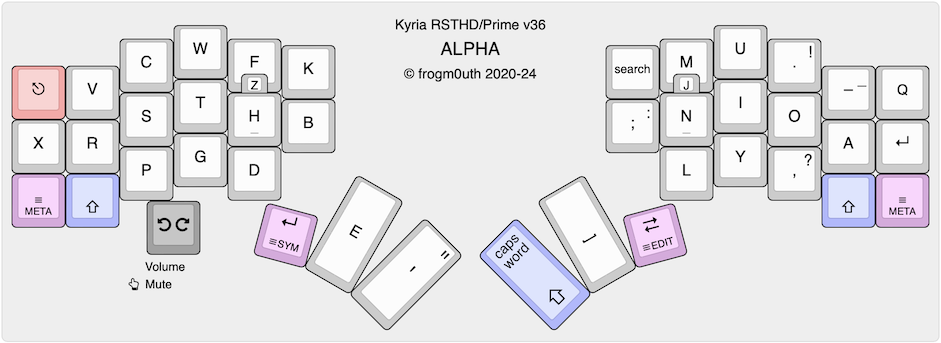
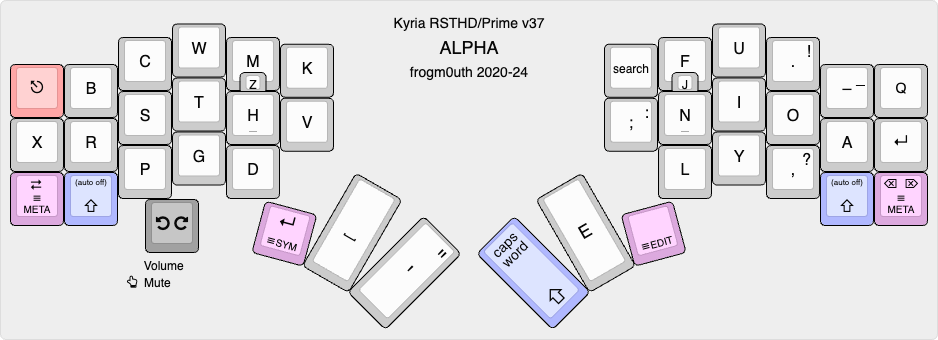
Layout changes for v37 - swapped E and space

diff --git a/kyria-rsthd-prime/keymap.c b/kyria-rsthd-prime/keymap.c
@@ -23,35 +23,35 @@
 // clang-format off
 const uint16_t PROGMEM keymaps[][MATRIX_ROWS][MATRIX_COLS] = {
 
-/* ALPHA v36
+/* ALPHA v37
  
  ,-----------------------------------------.                        ,-----------------------------------------.
- |  Esc |   V  |   C  |   W  |   F  |   K  |                        |Search|   M  |   U  | .  ! | -  _ |   Q  |
+ |  Esc |   B  |   C  |   W  |   M  |   K  |                        |Search|   F  |   U  | .  ! | -  _ |   Q  |
  |------+------+------+------+---Z--+------|                        |------+---J--+------+------+------+------|
- |   X  |   R  |   S  |   T  |   H  |   B  |                        | ;  : |   N  |   I  |   O  |   A  | Enter|
+ |   X  |   R  |   S  |   T  |   H  |   V  |                        | ;  : |   N  |   I  |   O  |   A  | Enter|
  |------+------+------+------+------+------'                        `------+------+------+------+------+------|
  |  Tab |      |   P  |   G  |   D  |                                      |   L  |   Y  | ,  ? |      |BkSp/D|
  | META | Shift|      |      |      |                                      |      |      |      | Shift| META |
  `----------------------------------'                                      `----------------------------------'
  .
  .                 ,------.      ,--------------------.  ,--------------------.
- .                 | Mute |      | Enter|   E  | '  " |  |CapWrd| Space|      |
+ .                 | Mute |      | Enter| Space| '  " |  |CapWrd|   E  |      |
  .                 |      |      | SYMS |      |      |  | Shift|      | EDIT |
  .                 `------'      `--------------------'  `--------------------'
 */
     [ALPHA] = KEY_LAYOUT_stack(
         /* Left hand */
-        KC_ESC,   KC_V,     KC_C,  KC_W,  KC_F,  KC_K,
-        KC_X,     KC_R,     KC_S,  KC_T,  KC_H,  KC_B,
+        KC_ESC,   KC_B,     KC_C,  KC_W,  KC_M,  KC_K,
+        KC_X,     KC_R,     KC_S,  KC_T,  KC_H,  KC_V,
         CL_META,  KC_LSFT,  KC_P,  KC_G,  KC_D,
 
         /* Right hand */
-                  SC_SEARCH, KC_M,  KC_U,  CU_DOT,  KC_MINS, KC_Q,
+                  SC_SEARCH, KC_F,  KC_U,  CU_DOT,  KC_MINS, KC_Q,
                   KC_SCLN,   KC_N,  KC_I,  KC_O,    KC_A,    KC_ENT,
                              KC_L,  KC_Y,  CU_COMM, KC_RSFT, CL_META_R,
 
         /* Thumbs */
-        CL_SYMS, KC_E, KC_QUOT,   CU_SHIFT, KC_SPC, CL_EDIT,
+        CL_SYMS, KC_SPC, KC_QUOT,   CU_SHIFT, KC_E, CL_EDIT,
 
         /* Encoder button */
         KC_MUTE
@@ -102,7 +102,7 @@ const uint16_t PROGMEM keymaps[][MATRIX_ROWS][MATRIX_COLS] = {
  | TabL | PgDn | Left | Down | Right| AppL |                        | AppR |      |      |      |      | TabR |
  |      |      |      |      |      |      |                        |      | Fast |  x4  | More |Delete|      |
  |------+------+------+------+------+------'                        `------+------+------+------+------+------|
- | ScrL |      | Undo | Enter| Redo |                                      |      |      |      |      | ScrR |
+ | ScrL |      | Undo |  Tab | Redo |                                      |      |      |      |      | ScrR |
  |      | Shift|      |      |      |                                      |  Cmd |  Alt | Ctrl | Shift|      |
  `----------------------------------'                                      `----------------------------------'
  .                                          Expose
@@ -116,7 +116,7 @@ const uint16_t PROGMEM keymaps[][MATRIX_ROWS][MATRIX_COLS] = {
         /* Left hand */
         SC_FULLSCREEN,   CE_PAGE_UP,   CE_HOME,  CE_UP,    CE_END,    CU_PREV_WINDOW,
         CU_TAB_LEFT,     CE_PAGE_DOWN, CE_LEFT,  CE_DOWN,  CE_RIGHT,  CU_APPSWITCH_LEFT,
-        SC_PREV_SCREEN,  _______,      SC_UNDO,  KC_ENT,   SC_REDO,
+        SC_PREV_SCREEN,  _______,      SC_UNDO,  KC_TAB,   SC_REDO,
 
 
         /* Right hand */

diff --git a/common/combo_defs.h b/common/combo_defs.h
@@ -44,45 +44,41 @@
 // clang-format off
 
 // Anti-SFU and anti-pinballing
-LtoR_STR( m,  KC_S, KC_D )
 LtoR_STR( sc, KC_C, KC_W )
 LtoR_STR( sp, KC_P, KC_G )
 
-CMBO_STR( et, CU_DOT, KC_MINS ) CMBO_TRM( et,  300 )
 RtoL_STR( er, KC_O, KC_A )
-RtoL_STR( ed, KC_L, KC_Y )
-RtoL_STR( es, KC_L, CU_COMM )
+RtoL_STR( the, KC_L, CU_COMM )
 RtoL_STR( ve, KC_I, CU_COMM )
 RtoL_STR( ee, KC_Y, CU_COMM )
 
-LtoR_STR( v, KC_P, KC_D )
+//LtoR_STR( v, KC_P, KC_D )
 
 // Verticals
 CMBO_STR( tw, KC_T, KC_W )
 CMBO_STR( ps, KC_S, KC_C )
-CMBO_STR( z,  KC_H, KC_F )
-CMBO_STR( j,  KC_N, KC_M )
+CMBO_STR( z,  KC_H, KC_M )
+CMBO_STR( j,  KC_N, KC_F )
 CMBO_STR( ui, KC_I, KC_U )
 
 // Awkward bigrams/trigrams
-LtoR_STR( ght, KC_X, KC_H )
-LtoR_STR( cr,  KC_W, KC_F )
-LtoR_STR( fr,  KC_S, KC_F )
-LtoR_STR( qu,  KC_V, KC_F )
+LtoR_STR( ght, KC_T, KC_D )
+LtoR_STR( cr,  KC_W, KC_M )
+LtoR_STR( qu,  KC_B, KC_M )
 LtoR_STR( pr,  KC_G, KC_D )
 
 RtoL_STR( you, KC_U, CU_DOT )
 
 // Inner column minimization
-LtoR_STR( ck,  KC_C, KC_F )
-LtoR_STR( k,   KC_T, KC_F )
+LtoR_STR( ck,  KC_C, KC_M )
+LtoR_STR( k,   KC_T, KC_M )
 
 LtoR_STR( rk,  KC_R, KC_W )
 LtoR_STR( br,  KC_R, KC_H )
-LtoR_STR( b,   KC_T, KC_D )
+LtoR_STR( b,   KC_S, KC_D )
 
 // Common word endings, right hand
-RtoL_STR( ally, KC_M, CU_DOT )
+RtoL_STR( ally, KC_F, CU_DOT )
 RtoL_STR( ould, KC_I, CU_DOT )
 RtoL_STR( all,  KC_N, CU_DOT )
 RtoL_STR( ough, KC_N, CU_COMM )
@@ -102,13 +98,12 @@ RtoL_STR( his,  KC_S, CU_COMM )
 RtoL_STR( but,  KC_T, CU_COMM )
 RtoL_STR( had,  KC_H, CU_COMM )
 
-RtoL_STR( for,  KC_F, CU_COMM )
 RtoL_STR( grep, KC_G, CU_COMM )
 RtoL_STR( diff, KC_D, CU_COMM )
 
-RtoL_LIT( ifdef,  "#ifdef",  KC_F, KC_Q )
-RtoL_LIT( endif,  "#endif",  KC_H, KC_Q )
-RtoL_LIT( define, "#define", KC_D, KC_Q )
+//RtoL_LIT( ifdef,  "#ifdef",  KC_F, KC_Q )
+//RtoL_LIT( endif,  "#endif",  KC_H, KC_Q )
+//RtoL_LIT( define, "#define", KC_D, KC_Q )
 
 // Extras and oddballs
 RtoL_LIT( apos_s, "'s", KC_S, KC_SCLN )
@@ -131,14 +126,13 @@ Q_RtoL_ARR( quote_re,
 */
 
 // Utilities
-Q_CMBO_KEY( search, SC_SEARCH,         CU_SHIFT, KC_SPC )  // Search key, on right thumb
+Q_CMBO_KEY( search, SC_SEARCH,         CU_SHIFT, KC_E )    // Search key, on right thumb
 Q_CMBO_KEY( expose, SC_EXPOSE_WINDOWS, KC_BSPC,  KC_DEL )  // Window expose, left thumb on EDIT layer
 
 CMBO_KEY( capslock, KC_CAPS,     KC_X, KC_ENTER )
 CMBO_KEY( capsword, CU_CAPSWORD, KC_F, KC_M )
 
 CMBO_KEY( screenlock, CU_SLCK,   KC_ESC, KC_Q )
-
 
 
 // Syntax layer

diff --git a/kyria-rsthd-prime/config.h b/kyria-rsthd-prime/config.h
@@ -16,23 +16,27 @@
 
 #pragma once
 
-#ifdef KEYBOARD_splitkb_kyria_rev1
-     // rev1 Kyria seems to have the encoders connected backwards
-     #define ENCODER_DIRECTION_FLIP
-
-     // Configuration for combos
-     #define COMBO_TERM 90
-     #define COMBOROLL_TERM 200
-#endif
-
-#ifdef KEYBOARD_splitkb_kyria_rev3
-     // use Liatris LED as capslock indicator
+#if (CONVERT_TO==liatris)
+     //use Liatris LED as capslock indicator
      #define LED_CAPS_LOCK_PIN 24
      #define LED_PIN_ON_STATE 0
 
      // Configuration for combos - timing seems to be different with different controller
      #define COMBO_TERM 120
      #define COMBOROLL_TERM 300
+#else
+     // Configuration for combos
+     #define COMBO_TERM 90
+     #define COMBOROLL_TERM 200
+#endif
+
+#ifdef KEYBOARD_splitkb_kyria_rev1
+     // rev1 Kyria seems to have the encoders connected backwards
+     #define ENCODER_DIRECTION_FLIP
+#endif
+
+#ifdef KEYBOARD_splitkb_kyria_rev3
+
 #endif
 
 

diff --git a/kyria-rsthd-prime/oled.c b/kyria-rsthd-prime/oled.c
@@ -100,7 +100,7 @@ static const char PROGMEM str_encoder_blank[]   = "                    ";
 #endif
 
 static const char PROGMEM str_oled_header[]     = "     RSTHD/Prime    ";
-static const char PROGMEM str_oled_version[]    = "         v35        ";
+static const char PROGMEM str_oled_version[]    = "         v37        ";
 static const char PROGMEM str_oled_caps[]       = "        CAPS        ";
 static const char PROGMEM str_oled_newline[]    = "\n";
 

diff --git a/kyria-rsthd-prime/README.md b/kyria-rsthd-prime/README.md
@@ -1,4 +1,4 @@
-# Kyria RSTHD/Prime v36
+# Kyria RSTHD/Prime v37
 
 This is the keymap for my Kyria keyboard from [splitkb.com](https://splitkb.com). The alpha layout was based on [RSTHD](https://xsznix.wordpress.com/2016/05/16/introducing-the-rsthd-layout/) but is now heavily modified. It's optimized for minimized usage of the inner index column. Features in the code include runtime switching between Mac/Windows/Linux shortcuts and a custom implementation of "comborolls".
 
@@ -83,9 +83,11 @@ Layer switching is done with custom code, so that a. shifted and custom keys can
 
 [KLE link](http://www.keyboard-layout-editor.com/#/gists/d7003ec84a3b856fa9d2530fe4c3c5d7)
 
-The alpha layout aims to reduce lateral finger movement on the index finger. In fact the lower key of the inner column has been completely removed in this version. An older version performed very well in an [analyzer](docs/prime-on-the-analyzer.md), with low SFU (same finger utilization) stats and low travel distance. For minimum SFBs, swap P and F.
+The alpha layout aims to reduce lateral finger movement on the index finger. In fact the lower key of the inner column has been completely removed in this version. An older version performed very well in an [analyzer](docs/prime-on-the-analyzer.md), with low SFU (same finger utilization) stats and low travel distance.
 
-Some changes have been made to the layout that nominally give it worse performance, because of the use of [comborolls](docs/comborolls.md). I recommend at a minimum setting up comborolls for ER and YOU on the right hand. If that works out, consider the rest of the comborolls at the link.
+Since then, changes have been made to the layout that nominally give it worse performance, because of the use of [comborolls](docs/comborolls.md). The linked doc is out of date for the current layout, see [``combo_defs.h``](combo_defs.h) for the actual comborolls in use.
+
+From v37 on, E and Space have been swapped relative to their RSTHD positions. This is a common change made - see [RSTHD variants and similar layouts](#rsthd-variants-and-similar-layouts).
 
 Z and J are accessed as vertical combos.
 
@@ -185,9 +187,14 @@ Assuming you already have QMK set up using the documented method:
 ```
 cd ~qmk_firmware/keyboards/splitkb/kyria/keymaps
 ln -s /path/to/workingdir/keyboard-firmware/kyria-rsthd-prime .
+```
+
+To compile for a rev1 board with a Pro Micro controller:
+
+```
 qmk compile -kb splitkb/kyria/rev1 -km kyria-rsthd-prime
 ```
-or for rev3 with a Liatris controller, change the last line to:
+To compile for a rev3 board with a Liatris controller:
 
 ```
 qmk compile -e CONVERT_TO=liatris -kb splitkb/kyria/rev3 -km kyria-rsthd-prime
